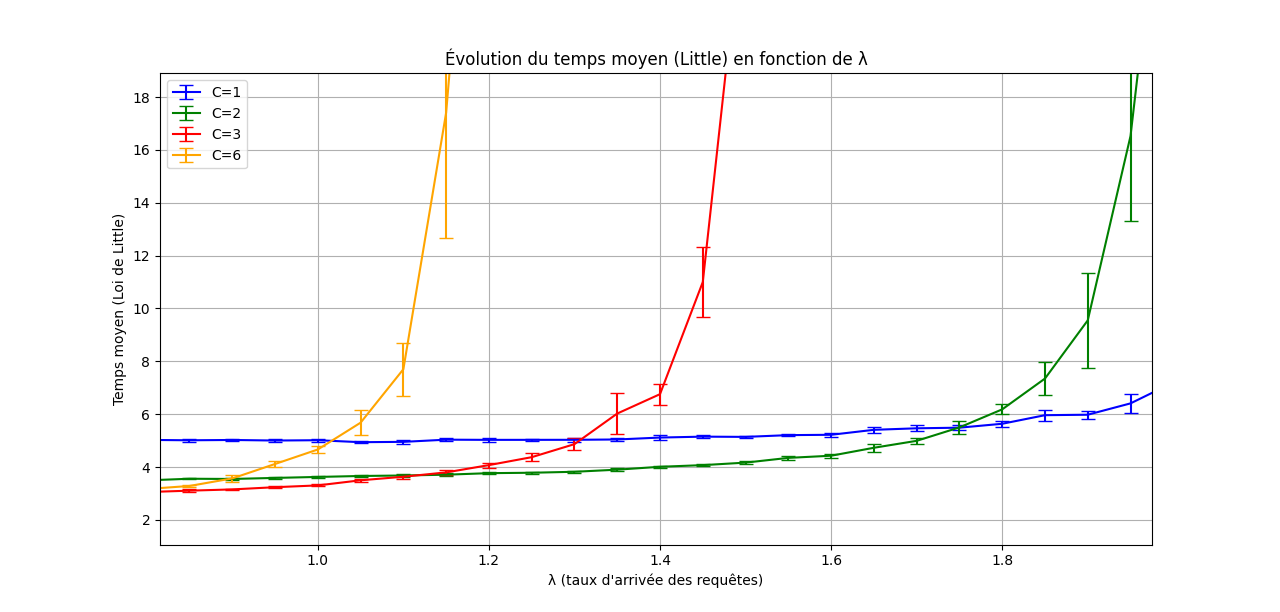
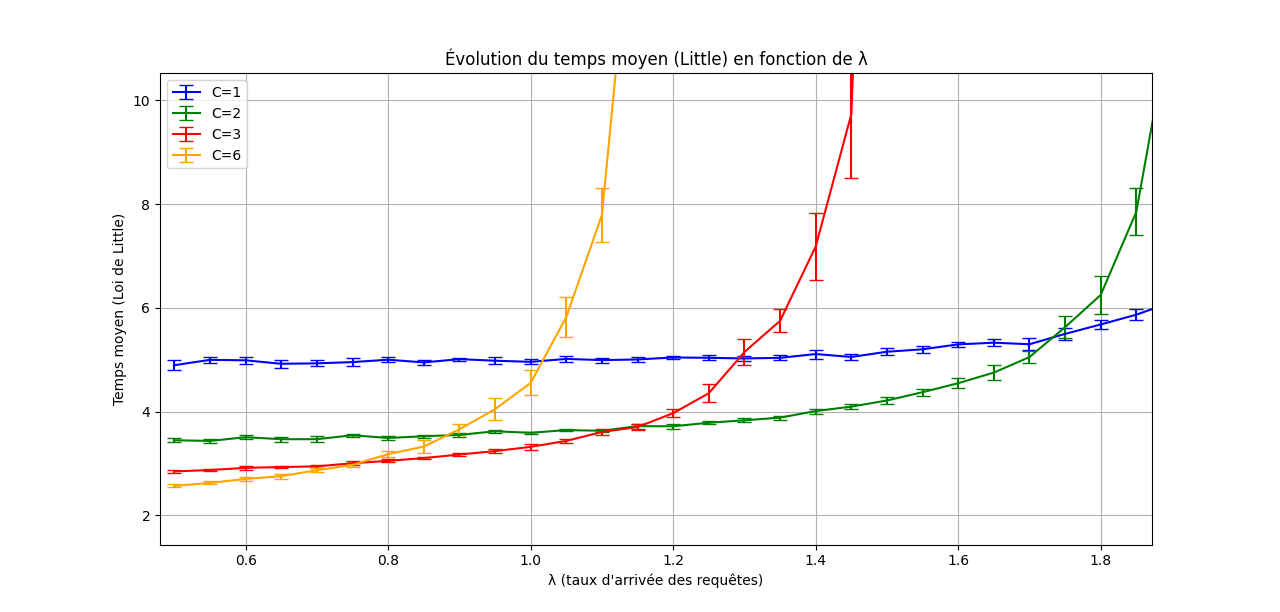
Ajout plots toux de perte pour chaque valeur de C

diff --git a/Simu/Rebuild.py b/Simu/Rebuild.py
@@ -169,16 +169,18 @@ def plot_temps_reponse(lambdas, resultats):
     plt.legend()
 
 def plot_taux_perte(lambdas, taux_pertes):
-    """Plot le taux de perte"""
+    """Plot le taux de perte en pourcentage"""
     plt.figure(figsize=(10, 6))
     couleurs = ['blue', 'green', 'red', 'orange']
     
     for i, C in enumerate(taux_pertes.keys()):
-        plt.plot(lambdas, taux_pertes[C], '-', 
+        # Convertir en pourcentage
+        taux_pourcent = [tp * 100 for tp in taux_pertes[C]]
+        plt.plot(lambdas, taux_pourcent, '-', 
                 color=couleurs[i], label=f"C={C}")
     
     plt.xlabel("λ (taux d'arrivée des requêtes)")
-    plt.ylabel("Taux de perte")
+    plt.ylabel("Taux de perte (%)")
     plt.title("Évolution du taux de perte en fonction de λ")
     plt.grid(True)
     plt.legend()
@@ -203,32 +205,40 @@ def plot_temps_little(lambdas, resultats_little):
     plt.grid(True)
     plt.legend()
 
-if __name__ == "__main__":
-    lambdas = np.arange(0.5, 2.1, 0.05)
-    nb_groupes_list = [1, 2, 3, 6]
+if __name__ == "__main__": 
+    lambdas = np.arange(1.9, 2.2, 0.01)
+    nb_groupes_list = [2]
+    n_sims = 3  # Nombre de simulations par point
     
     resultats = {C: [] for C in nb_groupes_list}
     taux_pertes = {C: [] for C in nb_groupes_list}
     resultats_little = {C: [] for C in nb_groupes_list}
     
     for C in nb_groupes_list:
+        print(f"Configuration C={C}")
         for lb in lambdas:
             temps_reponses = []
             temps_little = []
-            tp_total = 0
-            n_sims = 10
+            taux_perte = 0
             
-            for _ in range(n_sims):
+            # Faire n_sims simulations pour cette valeur de lambda
+            for sim in range(n_sims):
                 tr, tp, W_little = simulation(lb, C, 3000)
                 temps_reponses.append(tr)
                 temps_little.append(W_little)
-                tp_total += tp
+                taux_perte += tp/n_sims  # Moyenne du taux de perte
             
+            # Stocker les résultats pour les plots
             resultats[C].append(temps_reponses)
             resultats_little[C].append(temps_little)
-            taux_pertes[C].append(tp_total / n_sims)
-            print(f"C={C}, λ={lb:.1f}, TR={np.mean(temps_reponses):.2f}, W_little={np.mean(temps_little):.2f}")
+            taux_pertes[C].append(taux_perte)
+            
+            # Afficher les moyennes
+            tr_moy = np.mean(temps_reponses)
+            w_moy = np.mean(temps_little)
+            print(f"λ={lb:.2f}, TR={tr_moy:.2f}, TP={taux_perte:.2%}, W_little={w_moy:.2f}")
     
+    # Création des plots
     plot_temps_reponse(lambdas, resultats)
     plot_taux_perte(lambdas, taux_pertes)
     plot_temps_little(lambdas, resultats_little)
